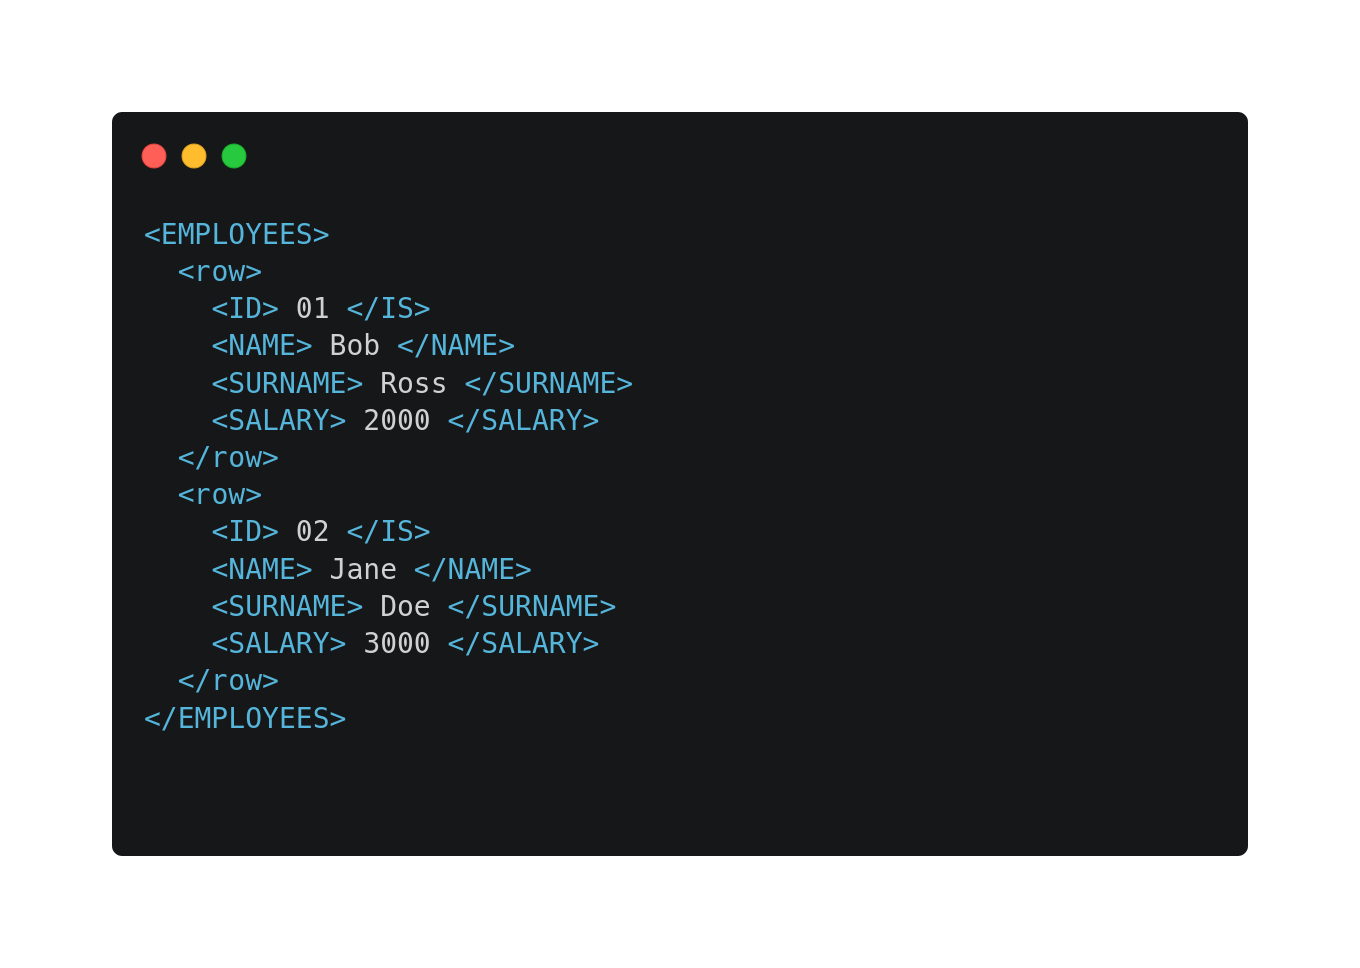
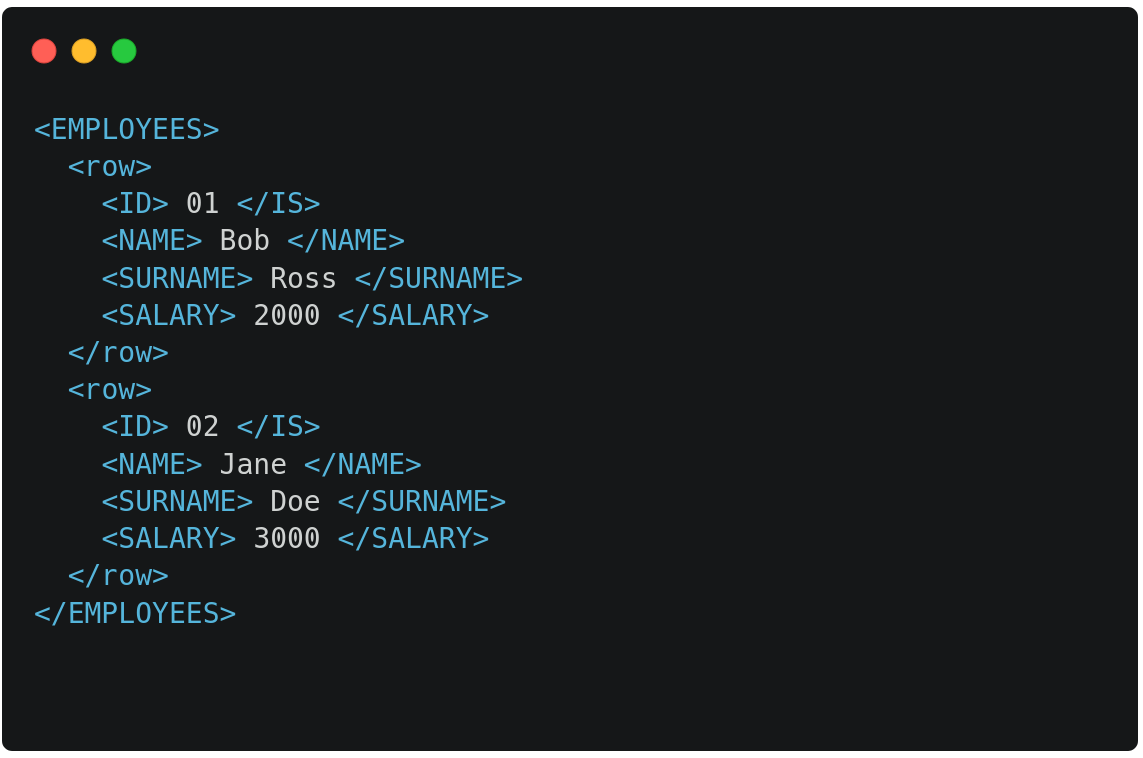
2025-09-09 21:58:02 from hyspxt

diff --git a/First Year/Complementi di Basi di Dati/2.2 Relational Data and XML.md b/First Year/Complementi di Basi di Dati/2.2 Relational Data and XML.md
@@ -36,8 +36,8 @@ This is a simple process, but we can accomplish it in two more ways.
 > - Null values are represented with the attribute `xsi:nil="true"`.
 > ![[sql_mapping.png]]
 > Moreover, we can extract specific data using [[2.3 XQuery|XQuery]]:
-> ![[xquery_salaries.png]]
-> 
+![[xquery_salaries.png]]
+
 
 
 
